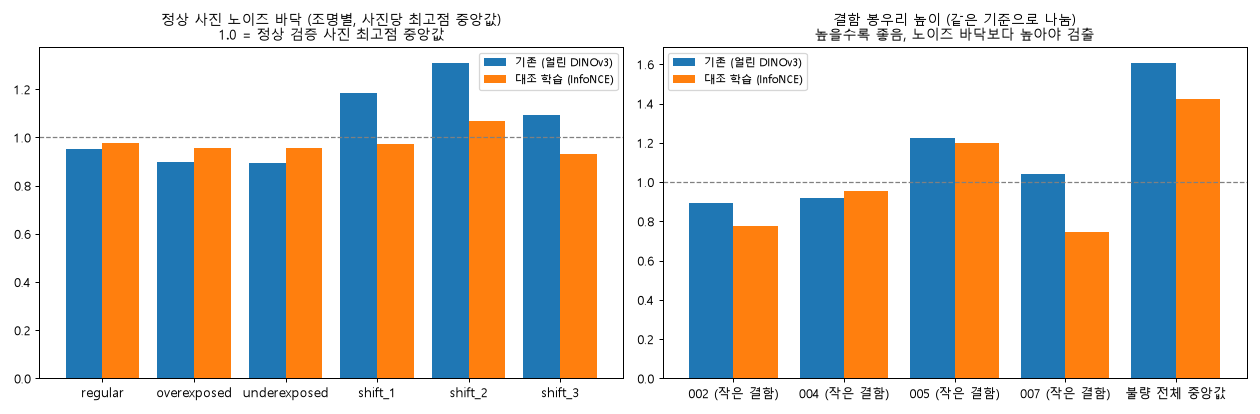
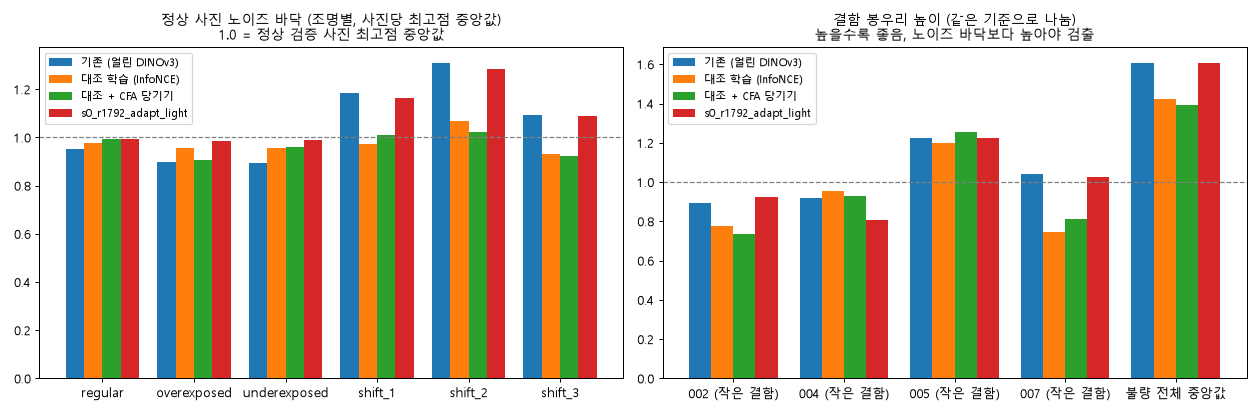
wallplugs: CFA and lighting-only adaptation variants (shift noise comes from rotation x light); hires --bank-rot90

diff --git a/src/industrial_inspection/hires.py b/src/industrial_inspection/hires.py
@@ -244,11 +244,17 @@ class HiResKNN:
                 gen = torch.Generator().manual_seed(int(rng.integers(1 << 31)))  # test's lighting shifts
                 gain, hl, gamma = light_field(*raw.shape[-2:], generator=gen)
                 raw = relight(raw[0], gain, hl, gamma)[None]
-            for pool, f in zip(pools, self.features(self.normalize(raw))):
-                t = self._local(f).flatten(1).T
-                if len(t) > self.per_image_cap:
-                    t = t[torch.from_numpy(rng.choice(len(t), self.per_image_cap, replace=False)).to(t.device)]
-                pool.append(t.half().cpu())
+            views = [raw]
+            if getattr(self, "bank_rot90", 0):  # extra copies rotated by k x 90 deg (+ random mirror): the plugs then
+                for _ in range(int(self.bank_rot90)):  # face the (fixed) light from other sides, as under shift light
+                    v = torch.rot90(raw, int(rng.integers(1, 4)), (2, 3))
+                    views.append(torch.flip(v, (3,)) if rng.random() < 0.5 else v)
+            for view in views:
+                for pool, f in zip(pools, self.features(self.normalize(view))):
+                    t = self._local(f).flatten(1).T
+                    if len(t) > self.per_image_cap:
+                        t = t[torch.from_numpy(rng.choice(len(t), self.per_image_cap, replace=False)).to(t.device)]
+                    pool.append(t.half().cpu())
         self.bank = []
         for pool in pools:
             x = torch.cat(pool)  # stays on the CPU: a large pool (per_image_cap x photos) need not fit in VRAM

diff --git a/scripts/hires.py b/scripts/hires.py
@@ -71,6 +71,8 @@ def main() -> None:
     p.add_argument("--histmatch", action="store_true",
                    help="match every photo's L-channel histogram to the mean CDF of the category's training photos (bank and queries alike)")
     p.add_argument("--pad-tokens", type=int, default=0, help="reflect-pad the photo by this many patches before tiling")
+    p.add_argument("--bank-rot90", type=int, default=0,
+                   help="bank=all: also add this many copies of each training photo rotated by a random k x 90 deg (+ mirror)")
     p.add_argument("--bank-light", type=float, default=0, help="bank=all: probability of directional relighting per training photo")
     p.add_argument("--tta-flip", action="store_true", help="average with the maps of the left-right mirrored photo")
     p.add_argument("--game-mode", action="store_true")
@@ -96,6 +98,7 @@ def main() -> None:
                      max_bank=args.max_bank, per_image_cap=args.per_image_cap)
     model.tta_flip, model.self_r, model.clahe = args.tta_flip, args.self_r, args.clahe
     model.unsharp, model.pad_tokens, model.bank_light = args.unsharp, args.pad_tokens, args.bank_light
+    model.bank_rot90 = args.bank_rot90
     if args.proj:
         from industrial_inspection.adapt import load_proj
         model.proj = load_proj(args.proj)
